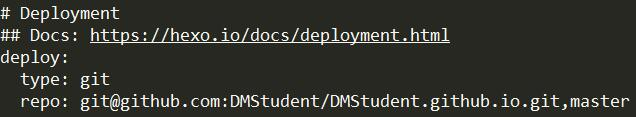
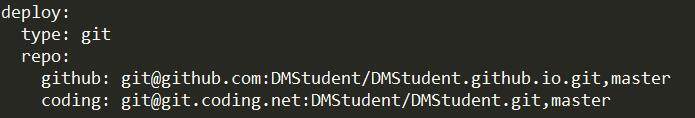
Site updated: 2018-11-09 17:47:47

diff --git a/2018/11/07/GitHub-Hexo搭建个人网站详细教程/index.html b/2018/11/07/GitHub-Hexo搭建个人网站详细教程/index.html
@@ -90,6 +90,7 @@
 <meta property="og:image" content="http://yoursite.com/2018/11/07/GitHub-Hexo搭建个人网站详细教程/hexo.jpg">
 <meta property="og:image" content="http://yoursite.com/2018/11/07/GitHub-Hexo搭建个人网站详细教程/GitHub_Settings_keys.jpg">
 <meta property="og:image" content="http://yoursite.com/2018/11/07/GitHub-Hexo搭建个人网站详细教程/ssh_git@github.jpg">
+<meta property="og:image" content="http://yoursite.com/2018/11/07/GitHub-Hexo搭建个人网站详细教程/coding_page.jpg">
 <meta property="og:image" content="http://yoursite.com/2018/11/07/GitHub-Hexo搭建个人网站详细教程/node_v.jpg">
 <meta property="og:image" content="http://yoursite.com/2018/11/07/GitHub-Hexo搭建个人网站详细教程/npm_v.jpg">
 <meta property="og:image" content="http://yoursite.com/2018/11/07/GitHub-Hexo搭建个人网站详细教程/open_command.jpg">
@@ -105,7 +106,7 @@
 <meta property="og:image" content="http://yoursite.com/2018/11/07/GitHub-Hexo搭建个人网站详细教程/themes2.jpg">
 <meta property="og:image" content="http://yoursite.com/2018/11/07/GitHub-Hexo搭建个人网站详细教程/setting1.jpg">
 <meta property="og:image" content="http://yoursite.com/2018/11/07/GitHub-Hexo搭建个人网站详细教程/setting2.jpg">
-<meta property="og:updated_time" content="2018-11-07T11:55:59.850Z">
+<meta property="og:updated_time" content="2018-11-09T09:46:22.811Z">
 <meta name="twitter:card" content="summary">
 <meta name="twitter:title" content="GitHub+Hexo搭建个人网站详细教程">
 <meta name="twitter:description" content="GitHub+Hexo 搭建个人网站详细教程前言：随着互联网浪潮的翻腾，国内外涌现出越来越多优秀的社交网站让用户分享信息更加便捷。然后，如果你是一个不甘寂寞的程序猿（媛），是否也想要搭建一个属于自己的个人网站，如果你曾经或者现在正有这样的想法，请跟随这篇文章发挥你的Geek精神，让你快速拥有自己的博客网站，写文章记录生活，享受这种从0到1的过程。 你见过的最棒的个人博客界面是什么样的？">
@@ -440,6 +441,12 @@
 <h4 id="安装Git"><a href="#安装Git" class="headerlink" title="安装Git"></a>安装Git</h4><p>什么是Git ?简单来说Git是开源的分布式版本控制系统，用于敏捷高效地处理项目。我们网站在本地搭建好了，需要使用Git同步到GitHub上。如果想要了解Git的细节，参看廖雪峰老师的Git教程：Git教程 从Git官网下载：<a href="https://git-scm.com/download/win" target="_blank" rel="noopener">Git - Downloading Package</a> 现在的机子基本都是64位的，选择64位的安装包，下载后安装，在命令行里输入git测试是否安装成功，若安装失败，参看其他详细的Git安装教程。安装成功后，将你的Git与GitHub帐号绑定，鼠标右击打开Git Bash，或者在菜单里搜索Git Bash，设置user.name和user.email配置信息：<br><figure class="highlight plain"><table><tr><td class="gutter"><pre><span class="line">1</span><br><span class="line">2</span><br></pre></td><td class="code"><pre><span class="line">git config --global user.name &quot;你的GitHub用户名&quot;</span><br><span class="line">git config --global user.email &quot;你的GitHub注册邮箱&quot;</span><br></pre></td></tr></table></figure></p>
 <p>生成ssh密钥文件：<br><figure class="highlight plain"><table><tr><td class="gutter"><pre><span class="line">1</span><br></pre></td><td class="code"><pre><span class="line">ssh-keygen -t rsa -C &quot;你的GitHub注册邮箱&quot;</span><br></pre></td></tr></table></figure></p>
 <p>然后直接三个回车即可，默认不需要设置密码<br>然后找到生成的.ssh的文件夹中的id_rsa.pub密钥，将内容全部复制<br>打开GitHub_Settings_keys 页面，新建new SSH Key<br><img src="/2018/11/07/GitHub-Hexo搭建个人网站详细教程/GitHub_Settings_keys.jpg" alt="GitHub_Settings_keys"><br>Title为标题，任意填即可，将刚刚复制的id_rsa.pub内容粘贴进去，最后点击Add SSH key。<br>在Git Bash中检测GitHub公钥设置是否成功，输入 ssh <a href="mailto:git@github.com" target="_blank" rel="noopener">git@github.com</a> ：<br><img src="/2018/11/07/GitHub-Hexo搭建个人网站详细教程/ssh_git@github.jpg" alt="ssh_git@github"><br>如上则说明成功。这里之所以设置GitHub密钥原因是，通过非对称加密的公钥与私钥来完成加密，公钥放置在GitHub上，私钥放置在自己的电脑里。GitHub要求每次推送代码都是合法用户，所以每次推送都需要输入账号密码验证推送用户是否是合法用户，为了省去每次输入密码的步骤，采用了ssh，当你推送的时候，git就会匹配你的私钥跟GitHub上面的公钥是否是配对的，若是匹配就认为你是合法用户，则允许推送。这样可以保证每次的推送都是正确合法的。</p>
+<h4 id="Coding创建个人仓库"><a href="#Coding创建个人仓库" class="headerlink" title="Coding创建个人仓库"></a>Coding创建个人仓库</h4><p>登录到Coding,如果没有Coding帐号，使用你的邮箱注册Coding帐号：<a href="https://coding.net/" target="_blank" rel="noopener">Coding</a> 点击在Co创建一个项目，仓库名应该为：用户名 这个用户名使用你的Coding帐号名称代替，这是固定写法，比如我的仓库名为：<strong> dmstudent </strong></p>
+<p>配置CodingGit的SSH<br>和github类似，打开个人中心的SSH公匙。</p>
+<p>添加后测试一下<br><figure class="highlight plain"><table><tr><td class="gutter"><pre><span class="line">1</span><br></pre></td><td class="code"><pre><span class="line">ssh -T git@git.coding.net</span><br></pre></td></tr></table></figure></p>
+<p>设置Coding项目中的配置</p>
+<p><strong>必须要在source/新建一个空白文件,名字必须是Staticfile</strong></p>
+<p>在刚刚建的项目中代码模块开启pages功能,这里的部署分支选择master,因为你在_config.yml中设置的分支是master,然后点击立即开启.<br><img src="/2018/11/07/GitHub-Hexo搭建个人网站详细教程/coding_page.jpg" alt="coding_page.jpg"></p>
 <h4 id="安装Node-js"><a href="#安装Node-js" class="headerlink" title="安装Node.js"></a>安装Node.js</h4><p>Hexo基于Node.js，Node.js下载地址：<a href="https://nodejs.org/en/download/" target="_blank" rel="noopener">Download | Node.js</a> 下载安装包，注意安装Node.js会包含环境变量及npm的安装，安装后，检测Node.js是否安装成功，在命令行中输入 node -v :<br><img src="/2018/11/07/GitHub-Hexo搭建个人网站详细教程/node_v.jpg" alt="node_v.jpg"><br>检测npm是否安装成功，在命令行中输入npm -v :<br><img src="/2018/11/07/GitHub-Hexo搭建个人网站详细教程/npm_v.jpg" alt="npm_v.jpg"><br>到这了，安装Hexo的环境已经全部搭建完成。</p>
 <h4 id="安装Hexo"><a href="#安装Hexo" class="headerlink" title="安装Hexo"></a>安装Hexo</h4><p>Hexo就是我们的个人博客网站的框架， 这里需要自己在电脑常里创建一个文件夹，可以命名为Blog，Hexo框架与以后你自己发布的网页都在这个文件夹中。创建好后，进入文件夹中，按住shift键，右击鼠标点击命令行<br><img src="/2018/11/07/GitHub-Hexo搭建个人网站详细教程/open_command.jpg" alt="open_command.jpg"><br>使用npm命令安装Hexo，输入：<br><figure class="highlight plain"><table><tr><td class="gutter"><pre><span class="line">1</span><br></pre></td><td class="code"><pre><span class="line">npm install -g hexo-cli</span><br></pre></td></tr></table></figure></p>
 <p>这个安装时间较长耐心等待，安装完成后，初始化我们的博客，输入：<br><figure class="highlight plain"><table><tr><td class="gutter"><pre><span class="line">1</span><br></pre></td><td class="code"><pre><span class="line">hexo init blog</span><br></pre></td></tr></table></figure></p>
@@ -664,7 +671,7 @@
             
 
             
-              <div class="post-toc-content"><ol class="nav"><li class="nav-item nav-level-3"><a class="nav-link" href="#GitHub-Hexo-搭建个人网站详细教程"><span class="nav-number">1.</span> <span class="nav-text">GitHub+Hexo 搭建个人网站详细教程</span></a><ol class="nav-child"><li class="nav-item nav-level-4"><a class="nav-link" href="#前言："><span class="nav-number">1.1.</span> <span class="nav-text">前言：</span></a></li><li class="nav-item nav-level-4"><a class="nav-link" href="#搭建步骤："><span class="nav-number">1.2.</span> <span class="nav-text">搭建步骤：</span></a></li><li class="nav-item nav-level-4"><a class="nav-link" href="#获得个人网站域名"><span class="nav-number">1.3.</span> <span class="nav-text">获得个人网站域名</span></a></li><li class="nav-item nav-level-4"><a class="nav-link" href="#GitHub创建个人仓库"><span class="nav-number">1.4.</span> <span class="nav-text">GitHub创建个人仓库</span></a></li><li class="nav-item nav-level-4"><a class="nav-link" href="#安装Git"><span class="nav-number">1.5.</span> <span class="nav-text">安装Git</span></a></li><li class="nav-item nav-level-4"><a class="nav-link" href="#安装Node-js"><span class="nav-number">1.6.</span> <span class="nav-text">安装Node.js</span></a></li><li class="nav-item nav-level-4"><a class="nav-link" href="#安装Hexo"><span class="nav-number">1.7.</span> <span class="nav-text">安装Hexo</span></a></li><li class="nav-item nav-level-4"><a class="nav-link" href="#推送网站"><span class="nav-number">1.8.</span> <span class="nav-text">推送网站</span></a></li><li class="nav-item nav-level-4"><a class="nav-link" href="#更换主题"><span class="nav-number">1.9.</span> <span class="nav-text">更换主题</span></a></li><li class="nav-item nav-level-4"><a class="nav-link" href="#个性化设置"><span class="nav-number">1.10.</span> <span class="nav-text">个性化设置</span></a></li><li class="nav-item nav-level-4"><a class="nav-link" href="#分类选项"><span class="nav-number">1.11.</span> <span class="nav-text">分类选项</span></a></li><li class="nav-item nav-level-4"><a class="nav-link" href="#标签选项"><span class="nav-number">1.12.</span> <span class="nav-text">标签选项</span></a></li><li class="nav-item nav-level-4"><a class="nav-link" href="#LocalSearch搜索"><span class="nav-number">1.13.</span> <span class="nav-text">LocalSearch搜索</span></a></li></ol></li></ol></div>
+              <div class="post-toc-content"><ol class="nav"><li class="nav-item nav-level-3"><a class="nav-link" href="#GitHub-Hexo-搭建个人网站详细教程"><span class="nav-number">1.</span> <span class="nav-text">GitHub+Hexo 搭建个人网站详细教程</span></a><ol class="nav-child"><li class="nav-item nav-level-4"><a class="nav-link" href="#前言："><span class="nav-number">1.1.</span> <span class="nav-text">前言：</span></a></li><li class="nav-item nav-level-4"><a class="nav-link" href="#搭建步骤："><span class="nav-number">1.2.</span> <span class="nav-text">搭建步骤：</span></a></li><li class="nav-item nav-level-4"><a class="nav-link" href="#获得个人网站域名"><span class="nav-number">1.3.</span> <span class="nav-text">获得个人网站域名</span></a></li><li class="nav-item nav-level-4"><a class="nav-link" href="#GitHub创建个人仓库"><span class="nav-number">1.4.</span> <span class="nav-text">GitHub创建个人仓库</span></a></li><li class="nav-item nav-level-4"><a class="nav-link" href="#安装Git"><span class="nav-number">1.5.</span> <span class="nav-text">安装Git</span></a></li><li class="nav-item nav-level-4"><a class="nav-link" href="#Coding创建个人仓库"><span class="nav-number">1.6.</span> <span class="nav-text">Coding创建个人仓库</span></a></li><li class="nav-item nav-level-4"><a class="nav-link" href="#安装Node-js"><span class="nav-number">1.7.</span> <span class="nav-text">安装Node.js</span></a></li><li class="nav-item nav-level-4"><a class="nav-link" href="#安装Hexo"><span class="nav-number">1.8.</span> <span class="nav-text">安装Hexo</span></a></li><li class="nav-item nav-level-4"><a class="nav-link" href="#推送网站"><span class="nav-number">1.9.</span> <span class="nav-text">推送网站</span></a></li><li class="nav-item nav-level-4"><a class="nav-link" href="#更换主题"><span class="nav-number">1.10.</span> <span class="nav-text">更换主题</span></a></li><li class="nav-item nav-level-4"><a class="nav-link" href="#个性化设置"><span class="nav-number">1.11.</span> <span class="nav-text">个性化设置</span></a></li><li class="nav-item nav-level-4"><a class="nav-link" href="#分类选项"><span class="nav-number">1.12.</span> <span class="nav-text">分类选项</span></a></li><li class="nav-item nav-level-4"><a class="nav-link" href="#标签选项"><span class="nav-number">1.13.</span> <span class="nav-text">标签选项</span></a></li><li class="nav-item nav-level-4"><a class="nav-link" href="#LocalSearch搜索"><span class="nav-number">1.14.</span> <span class="nav-text">LocalSearch搜索</span></a></li></ol></li></ol></div>
             
 
           </div>

diff --git a/css/main.css b/css/main.css
@@ -1823,7 +1823,7 @@ pre .javascript .function {
   width: 4px;
   height: 4px;
   border-radius: 50%;
-  background: #f6ff21;
+  background: #ff9cff;
 }
 .links-of-blogroll {
   font-size: 13px;
